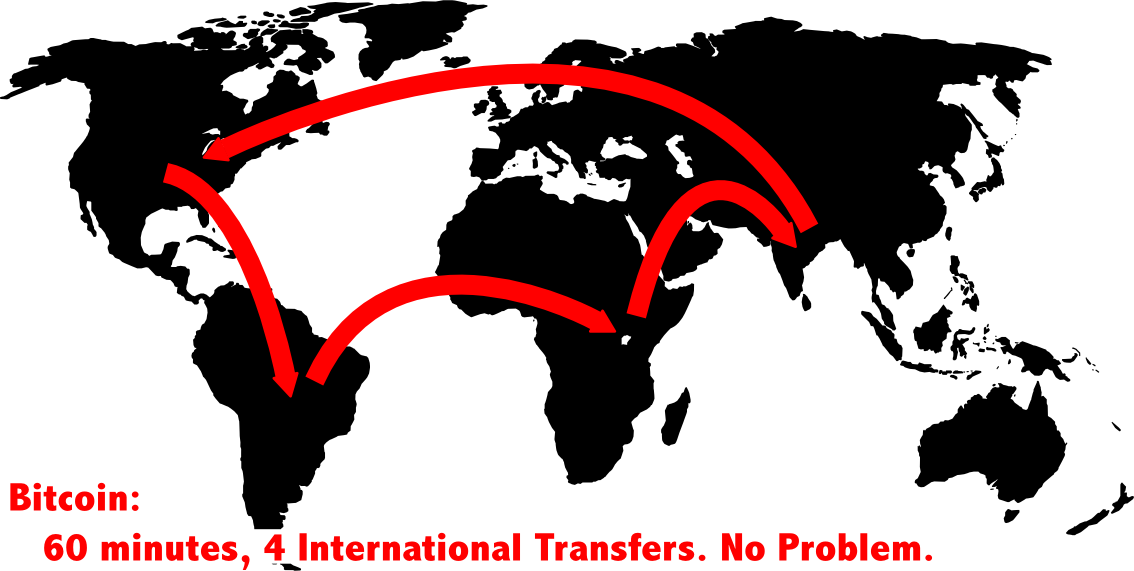
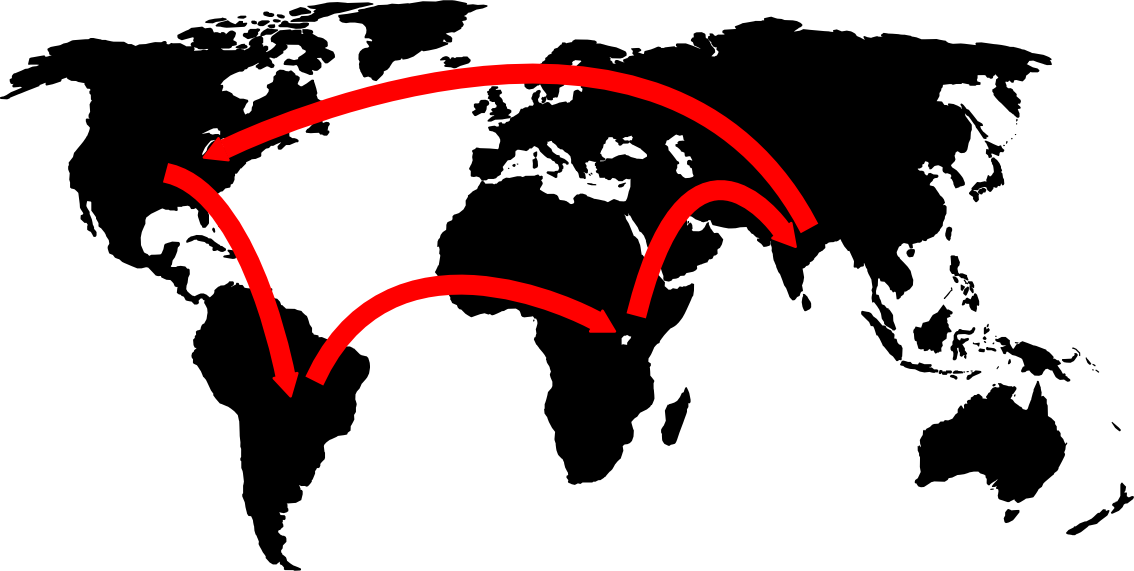
updated branding

Changed region(s): [[0.0309, 0.9229, 0.8333, 1.0], [0.0, 0.8336, 0.1235, 0.8932]]

diff --git a/about.md b/about.md
@@ -4,23 +4,26 @@ title: About So What's Bitcoin? Explaining bitcoin to everyone.
 permalink: /About/
 ---
 # Why this Site?
-Everyone should understand bitcoin's amazing potential. Most websites are full of tech jargon. The lack of plain language websites is robbing non-techies of the opportunity to understand this technology which could [change their life](http://www.businessinsider.com/man-buys-bitcoin-forgets-about-it-remembers-finds-a-fortune-2013-10).
+Everyone deserves to be empowered. Bitcoin is the most empowering force since the Internet. Everyone should understand bitcoin's amazing potential. Most websites are full of tech jargon. The lack of plain language websites is robbing non-techies of the opportunity to understand this technology that could [change their life](http://www.businessinsider.com/man-buys-bitcoin-forgets-about-it-remembers-finds-a-fortune-2013-10).
 
-# Four reasons to <i class="fa fa-heart"></i> Bitcoin
-1. Bitcoin is the easiest fastest way to send and receive money online.
-2. Bitcoin is early in its life and will potentially be valued hundreds of times higher than where it is now. Today's investors might be like the [guy](http://www.businessinsider.com/man-buys-bitcoin-forgets-about-it-remembers-finds-a-fortune-2013-10) who invested $27 into Bitcoin and had over $500,000 four years later.
-3. Bitcoin lets people do things no other form of money can. 
- * Any charity can accept money through a QR code. That means a printed sign, a sign shown on tv, a business card - all these mediums are now potential donation channels for the charity to instantly receive dollars or bitcoins.
+# Four reasons bitcoin empowers people
+1. Bitcoin lets people do things no other form of money can. 
+ * Any charity can accept money through a QR code. That means a printed sign, a sign shown on TV, a business card - all these mediums are now potential donation channels for the charity to instantly receive dollars or bitcoins.
  * Using [ChangeTip](http://www.changetip.com) on Twitter one can send $5 to someone in Japan who can then send $5 to someone in [Kreuzberg, Berlin](http://www.theguardian.com/technology/2013/apr/26/bitcoins-gain-currency-in-berlin) who can then buy a sandwich with bitcoin, all within the span of 5 minutes. That is impossible with all other payment systems today. 
  * Another use case is being able to raise startup funds through [crowdsales](http://blog.mastercoin.org/2014/06/03/upcoming-crowd-sales-worth-tens-of-millions-of-dollars/)
  * A future use case will be enabling people to sell stock purchased through a brokerage, like AAPL, at a Christmas dinner to a family member.
  * Another future use case is being able to have software auto execute a will. Instead of having lawyers and probate, upon death all assets could be distributed exactly as the owner wanted within seconds of the death being recorded.
-4. Bitcoin enables micropayments. Through bitcoin it is possible to pay cents and even fractions of a cent for services. Entire new payment models will emerge. For example paying for WiFi at an airport or restaurant, paying to read articles online, all kinds of services that are ad funded could be paid directly by the consumer, aligning the incentives of the producer and consumer.
+2. Bitcoin enables people to pay small amounts (25 cents or even fractions of a cent) of money. Entire new payment models will emerge. For example paying for WiFi at an airport or restaurant, paying to read articles online, all kinds of services that are ad funded could be paid directly by the consumer, aligning the incentives of the producer and consumer.
+3. Bitcoin is the easiest fastest way to send money online and the fastest, safest, and easiest way to receive money online.
+4. Bitcoin is early in its life and will potentially be valued hundreds of times higher than where it is now. Today's investors might be like the [guy](http://www.businessinsider.com/man-buys-bitcoin-forgets-about-it-remembers-finds-a-fortune-2013-10) who invested $27 into Bitcoin and had over $500,000 four years later.
+
+# Support the Empowerment of People
+Just like the Internet bitcoin is going to empower people in ways we can't imagine. Join [Bitcoin Bulls](http://www.bitcoinbulls.net) to put your time, energy, or capital towards this great cause.
 
 # Who created What is Bitcoin?
 
 <a href="http://www.davidsilvasmith.com"><img src="http://www.gravatar.com/avatar/38c982e6a1d3ae992a40887a59748cdb?s=150" style="margin: 0px 10px 10px 10px" class="pull-left photo img-responsive img-thumbnail"></a>
-Founded by [David Smith](http://www.davidsilvasmith.com) a bitcoin educator and consultant.
+Founded by [David Smith](http://www.davidsilvasmith.com) a bitcoin [educator and consultant](http://www.bitcoinbulls.net/bitcoin-expert/).
 
 David is a former [software developer](http://stackoverflow.com/users/46076/) who loves connecting with people and [Tweeting ](http://www.twitter.com/davidsilvasmith) about bitcoin.
 

diff --git a/index.md b/index.md
@@ -9,11 +9,9 @@ permalink: /
 
 ![bitcoin moves money around the world](/images/bitcoin-around-the-world.png 'bitcoin moves money around the world' )
 
->Every informed person needs to know about Bitcoin because it might be one of the world’s most important developments. --*Leon Louw*, Nobel Peace Prize nominee
+>Everyone deserves to be empowered. Bitcoin is the most empowering force since the Internet. --*David Smith*, Bitcoin Evangelist
 
-#### What is bitcoin? Bitcoin is digital cash. 
-
-Like email changed communications, bitcoin is changing commerce.
+Bitcoin: Send money as easily as sending an email.
 {: .lead} 
 
 [<i class="fa fa-info-circle"></i> Learn more!](/for-individuals){: class="btn btn-lg btn-success" role="button"}
@@ -32,7 +30,7 @@ Like email changed communications, bitcoin is changing commerce.
 
 ##<i class="fa fa-building"></i> For Businesses
 
-Bitcoin is the cheapest, fastest, and safest way to take bitcoin. Learn how to never again worry about card not present fraud, chargebacks, and reaching a new audience.
+Bitcoin empowers businesses. With bitcoin businesses can receive payment without fear of fraud. Businesses can quickly receive payment however they want it, and businesses can accept payment exactly how and when they want. Bitcoin empowers merchants by removing fees, fear, and third party rules from transactions between merchants and customers.
 
 [Learn more >>](/for-businesses){: class="btn btn-primary" role="button"}
 </div>
@@ -42,7 +40,7 @@ Bitcoin is the cheapest, fastest, and safest way to take bitcoin. Learn how to n
 
 ##<i class="fa fa-file-code-o"></i> For Developers
 
-Bitcoin is the easiest way to accept and move money online. Say goodbye to days or weeks of the usual painful ecommerce coding integrations. Bitcoin integrations are measured in hours from starting a payment integration to accepting customer payments.
+Bitcoin empowers developers. Bitcoin is the easiest way to accept and move money online. Say goodbye to days or weeks of the usual painful ecommerce coding integrations. Bitcoin integrations are measured in hours from starting a payment integration to accepting customer payments.
 
 [Learn more >>](/for-developers){: class="btn btn-primary" role="button"}
 </div>
@@ -52,7 +50,7 @@ Bitcoin is the easiest way to accept and move money online. Say goodbye to days 
 
 ##<i class="fa fa-flag"></i> For Individuals
 
-Bitcoin is the best form of money in existence. However USD is pretty darn good. You should care about bitcoin because it is potentially the best investment opportunity of your lifetime. One person spent $27 on Bitcoin. Four years later that investment had grown to over **$500,000** worth. Interested? I know I am.
+Bitcoin empowers individuals. For the first time in history one can send money as easily to someone across the globe as they can to their neighbor. People no longer need to worry about the security of their merchants. People no longer need to worry about hidden bank fees, minimum account balances, or being black listed from opening a bank account. Bitcoin empowers individuals to completly control their money.
 
 [Learn more >>](/for-individuals){: class="btn btn-primary" role="button"}
 </div>
